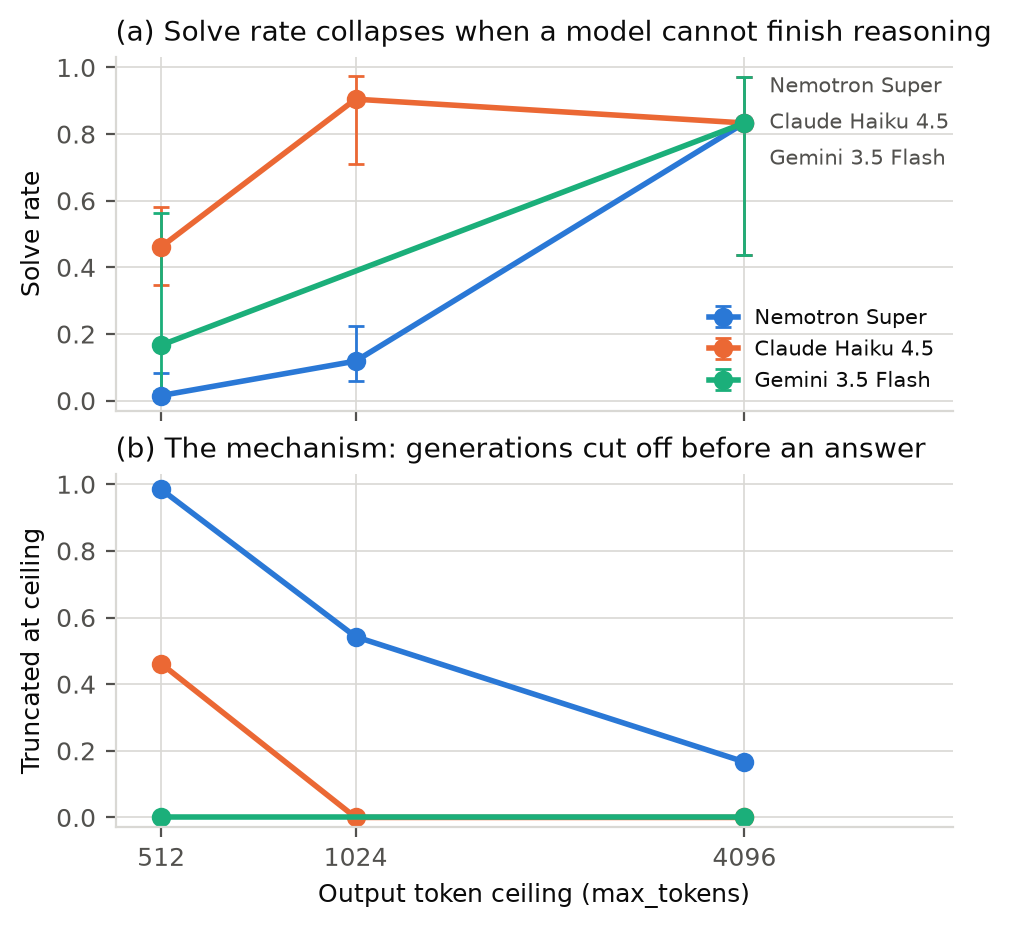
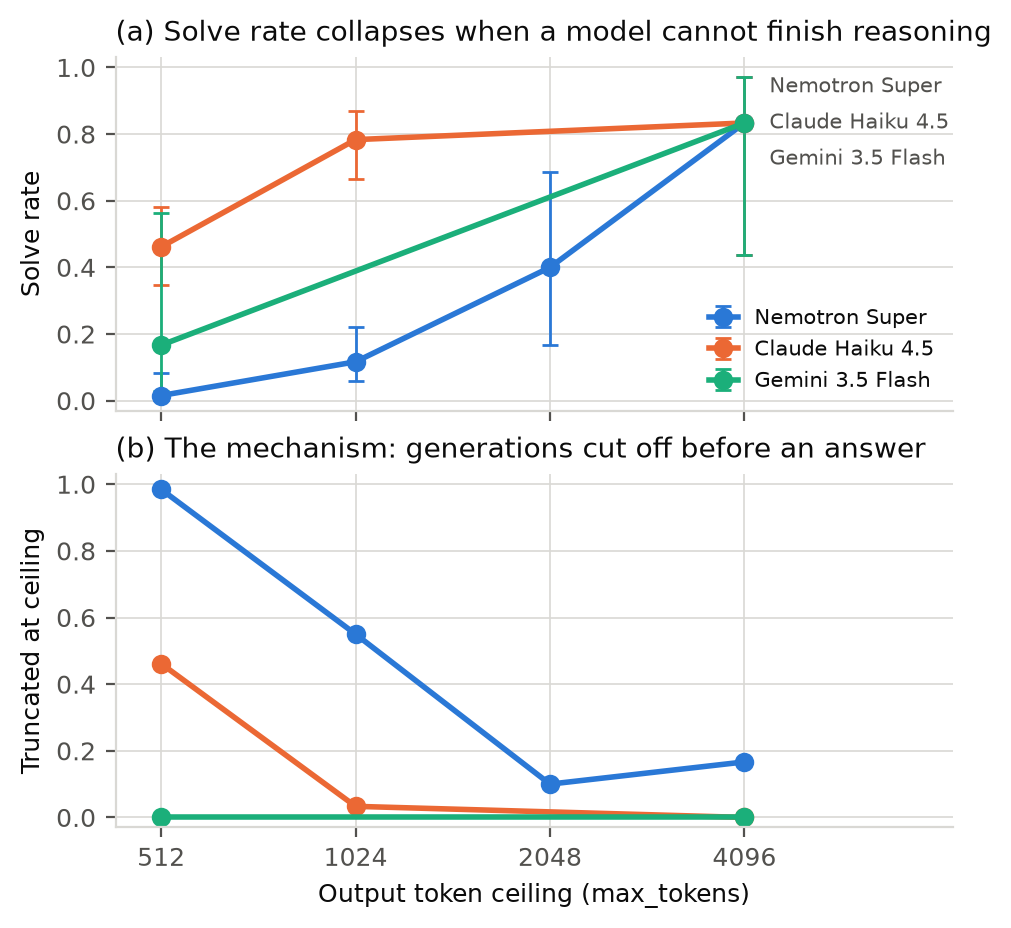
fix: truncation detection was wrong for models that think invisibly
Gemini generations were visibly cut in mid sentence, including mid
answer, while candidates_token_count reported ~20 tokens against a 512
ceiling. Thinking tokens are billed against the ceiling but excluded
from the visible output count, so the token-count proxy reported zero
truncation exactly where truncation was worst. On that basis the paper
would have claimed Gemini was unaffected by the ceiling. The raw
generations show the opposite.

Runners now capture the vendor finish_reason (authoritative) and
thoughts_token_count; truncation prefers finish_reason and falls back to
tokens only for records predating this change. For the two models whose
reasoning is visible the fallback matches the ceiling exactly, so the
existing sweep data stands.

This is now a contribution rather than only a bug: the naive check fails
silently, fails in the direction of understating a model, and fails
specifically on the reasoning models the effect concerns.

Also demotes Gemini to a preliminary observation throughout. Its free
tier allows 20 requests per day for the model, which is not a sample
size. The primary comparison is Nemotron against Claude, chosen as
opposite ends of output verbosity, which is the axis the effect acts on.

diff --git a/paper/main.tex b/paper/main.tex
@@ -31,9 +31,12 @@ raising the ceiling from \tokenLowBudget{} to \tokenHighBudget{} tokens moves
 sample and the scoring held fixed. The model was not failing to plan. At the
 lower ceiling \nemotronTruncLow{} of its generations were cut off before an
 answer was emitted, and an exact match scorer recorded that truncation as a
-planning error. We quantify the effect across three tier matched models, show
-that its size tracks how verbosely a model reasons, and separate it from test
-time compute scaling by reporting the truncation rate alongside accuracy. We
+planning error. We quantify the effect across tier matched models, show that its
+size tracks how verbosely a model reasons, and separate it from test time
+compute scaling by reporting the truncation rate alongside accuracy. We further
+show that the obvious way to detect truncation, comparing emitted tokens against
+the ceiling, is unsound for models that reason in hidden tokens and fails in the
+direction of understating them. We
 argue that the generation ceiling is a confound evaluation reports must state,
 and that a truncation rate materially above zero invalidates the accuracy number
 it accompanies. We release the harness and the per call records.
@@ -69,13 +72,19 @@ fault.
 \paragraph{Contributions.}
 \begin{enumerate}\itemsep2pt
 \item We isolate the generation ceiling as an experimental variable on
-      \textsc{Natural Plan} Calendar Scheduling and measure its effect across
-      three tier matched models.
-\item We show the effect is not uniform across models. It is large for models
-      that reason in the open and near zero for models that do not, so a single
-      ceiling applied to every model is not a neutral experimental choice.
-\item We report accuracy jointly with output spend and latency, and we validate
-      our scorer against published numbers before reporting any comparison.
+      \textsc{Natural Plan} Calendar Scheduling and measure its effect on two
+      tier matched models chosen to sit at opposite ends of output verbosity.
+\item We show the effect is not uniform across models, so a single ceiling
+      applied to every model is not a neutral experimental choice, and we
+      separate it from test time compute scaling by reporting the truncation
+      rate and the solve rate conditional on finishing.
+\item We show that the obvious way to detect truncation, comparing emitted
+      tokens against the ceiling, is unsound for models that reason in hidden
+      tokens, and that it fails in the direction of understating them
+      (Section~\ref{sec:hidden}).
+\item We report accuracy jointly with output spend and latency, validate our
+      scorer against published numbers before reporting any comparison, and
+      quantify run to run variance from a seeded replication.
 \item We release the harness, the per call records and the analysis code.
 \end{enumerate}
 
@@ -120,12 +129,38 @@ actually scores. We therefore set shot count explicitly in all of our own runs
 rather than relying on that label.
 
 \subsection{Models}
-We compare three models matched by vendor tier rather than by parameter count:
-\nemotronName{}, a sparse mixture of experts \cite{shazeer2017outrageously} with
-\nemotronTotalParams{} total and \nemotronActiveParams{} active parameters;
-\claudeName{}; and \geminiName{}. Only the first has a published parameter
-count. We therefore do not plot accuracy against parameter count, because doing
-so for the other two would require inventing numbers.
+Our primary comparison is between two models matched by vendor tier and chosen
+because they sit at opposite ends of output verbosity, which is the axis the
+effect acts on: \nemotronName{}, a sparse mixture of experts
+\cite{shazeer2017outrageously} with \nemotronTotalParams{} total and
+\nemotronActiveParams{} active parameters, which reasons in its visible output;
+and \claudeName{}, which is comparatively terse. Only the first has a published
+parameter count, so we do not plot accuracy against parameter count, because
+doing so for the other would require inventing a number.
+
+We additionally report a small set of \geminiName{} results. These are
+preliminary and we label them as such: the free API tier for that model permits
+twenty requests per day, which is not a sample size, and we had no funded
+account. We include them only because they bear on the measurement issue in
+Section~\ref{sec:hidden}, not as a third arm of the comparison.
+
+\subsection{Detecting truncation is harder than it looks}
+\label{sec:hidden}
+The obvious way to detect that a generation hit the ceiling is to compare the
+emitted token count against it. That test is wrong for any model that reasons
+in hidden tokens. In our \geminiName{} runs, generations were visibly cut in
+mid sentence, including mid answer, while the reported output token count stood
+at roughly twenty against a ceiling of \tokenLowBudget{}. The reasoning tokens
+are billed against the ceiling but are absent from the visible output count, so
+the naive check reports no truncation precisely where truncation is worst.
+
+We flag this because it is a trap with an unpleasant shape: the check fails
+silently, it fails in the direction that makes a model look worse rather than
+better, and it fails specifically on the reasoning models this effect concerns.
+We therefore take the vendor's finish reason as authoritative wherever it is
+available, and treat any token based rule as a fallback. Our earlier analysis
+used the token rule and, on that basis alone, would have reported \geminiName{}
+as unaffected by the ceiling. The raw generations show the opposite.
 
 \subsection{Experimental controls}
 Every model receives the byte identical user prompt taken from the dataset, with

diff --git a/apps/api/app/agents/naturalplan/runners.py b/apps/api/app/agents/naturalplan/runners.py
@@ -34,6 +34,13 @@ class ModelResult:
     latency_s: float = 0.0
     input_tokens: int = 0
     output_tokens: int = 0
+    # Authoritative truncation signal from the vendor. Counting emitted tokens
+    # and comparing against the ceiling is NOT reliable: a model that reasons in
+    # hidden "thinking" tokens spends the budget without those tokens appearing
+    # in the visible output count, so the naive check reports no truncation on
+    # exactly the models where truncation matters most.
+    finish_reason: str | None = None
+    thinking_tokens: int = 0
     error: str | None = None
     meta: dict = field(default_factory=dict)
 
@@ -85,6 +92,7 @@ def run_nemotron(prompt: str, max_tokens: int = 1024, temperature: float = 0.0) 
             latency_s=elapsed,
             input_tokens=getattr(usage, "prompt_tokens", 0),
             output_tokens=getattr(usage, "completion_tokens", 0),
+            finish_reason=str(getattr(response.choices[0], "finish_reason", "") or ""),
         )
     except Exception as exc:  # noqa: BLE001 - recorded, never fatal to a run
         return ModelResult(error=f"{type(exc).__name__}: {exc}")
@@ -115,6 +123,7 @@ def run_claude(prompt: str, max_tokens: int = 1024, temperature: float = 0.0) ->
             latency_s=elapsed,
             input_tokens=response.usage.input_tokens,
             output_tokens=response.usage.output_tokens,
+            finish_reason=str(getattr(response, "stop_reason", "") or ""),
             meta={"temperature": "api_default (not settable in anthropic 1.7.0)"},
         )
     except Exception as exc:  # noqa: BLE001
@@ -165,11 +174,19 @@ def run_gemini(prompt: str, max_tokens: int = 1024, temperature: float = 0.0) ->
             ),
         )
         um = getattr(response, "usage_metadata", None)
+        cands = getattr(response, "candidates", None) or []
+        finish = str(getattr(cands[0], "finish_reason", "") or "") if cands else ""
+        # thoughts_token_count is billed against max_output_tokens but is absent
+        # from candidates_token_count, which is why the token proxy under-reports
+        # truncation for this model.
+        thinking = getattr(um, "thoughts_token_count", 0) or 0
         return ModelResult(
             text=response.text or "",
             latency_s=elapsed,
             input_tokens=getattr(um, "prompt_token_count", 0) or 0,
             output_tokens=getattr(um, "candidates_token_count", 0) or 0,
+            finish_reason=finish,
+            thinking_tokens=thinking,
         )
     except Exception as exc:  # noqa: BLE001
         return ModelResult(error=f"{type(exc).__name__}: {exc}")

diff --git a/scripts/make_figures.py b/scripts/make_figures.py
@@ -107,8 +107,25 @@ def _tidy(ax):
     ax.spines["right"].set_visible(False)
 
 
+# Vendor strings that mean "stopped because the ceiling was reached".
+_TRUNC_REASONS = {"length", "max_tokens", "MAX_TOKENS", "FinishReason.MAX_TOKENS"}
+
+
 def truncated(r, budget):
-    return r["output_tokens"] >= budget
+    """Prefer the vendor's finish reason; fall back to the token count.
+
+    The fallback is not equivalent. A model whose reasoning happens in hidden
+    thinking tokens spends the ceiling without those tokens appearing in the
+    visible output count, so the fallback reports no truncation precisely where
+    truncation is worst. Records produced before finish_reason was captured use
+    the fallback, and for the two models whose reasoning is visible its verdict
+    matches the ceiling exactly.
+    """
+    reason = r.get("finish_reason")
+    if reason:
+        return str(reason) in _TRUNC_REASONS or "MAX_TOKENS" in str(reason)
+    spent = r["output_tokens"] + (r.get("thinking_tokens") or 0)
+    return spent >= budget
 
 
 def truncation_rate(rows, budget):

diff --git a/scripts/run_naturalplan.py b/scripts/run_naturalplan.py
@@ -120,6 +120,8 @@ def main() -> None:
                     "num_days": str(item["num_days"]),
                     "solved": bool(res.text) and is_solved(res.text, item["golden_plan"]),
                     "latency_s": round(res.latency_s, 3),
+                    "finish_reason": res.finish_reason,
+                    "thinking_tokens": res.thinking_tokens,
                     "input_tokens": res.input_tokens,
                     "output_tokens": res.output_tokens,
                     "error": res.error,
